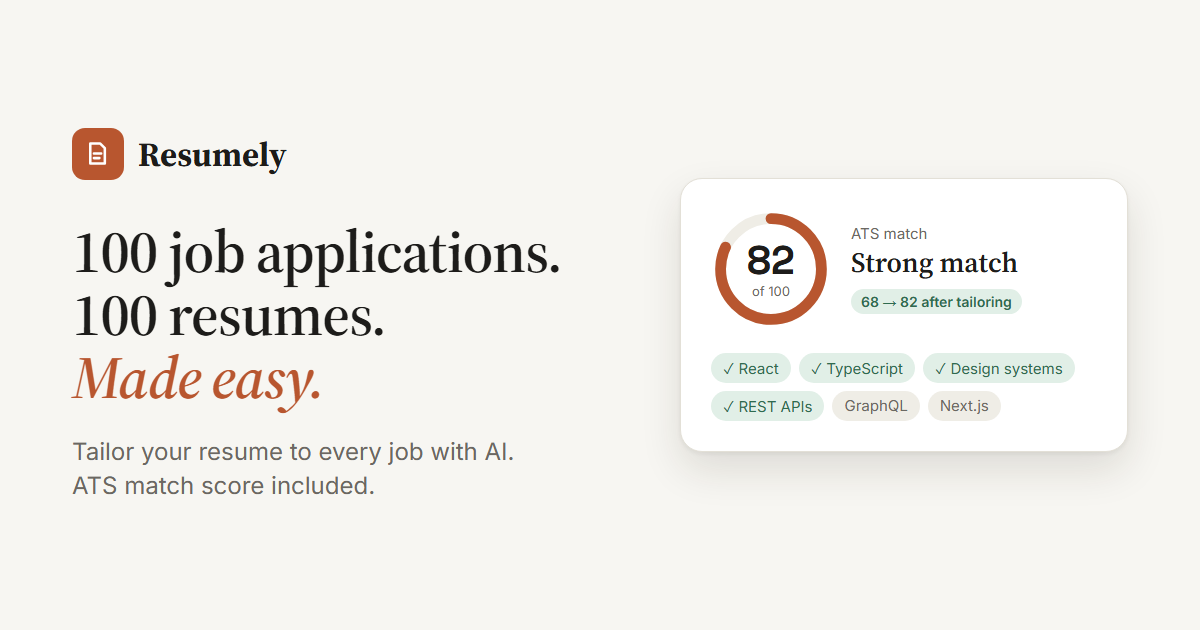
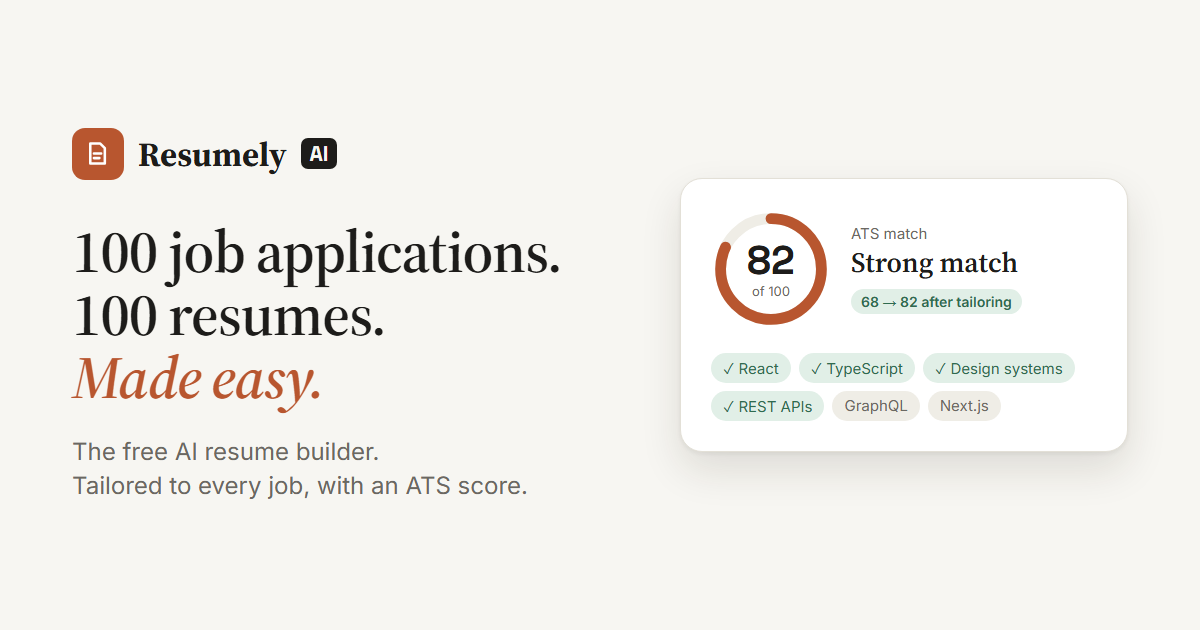
SEO pass: Resumely AI name, one H1, FAQ, AI search, live sitemap
Audited against the seo-audit and seo skills from
davila7/claude-code-templates:

- Name is "Resumely AI" across the site, social image, manifest,
  structured data and 404 page.
- Title leads with the keyword (Free AI Resume Builder & ATS Checker |
  Resumely AI, 50 chars); description 155 chars with a call to action.
- Exactly one H1 (the hidden screens' titles are H2s) and it says AI;
  an H2 for "How the AI resume builder works", so headings don't skip.
- Visible FAQ (8 real answers, incl. free limits and privacy) with
  FAQPage structured data generated from the same text.
- WebApplication + Organization + WebSite structured data (free offer).
- llms.txt for AI search tools (ChatGPT, Perplexity, Google AI answers).
- Sitemap generated with lastmod = when the page last changed.

Changed region(s): [[0.0617, 0.6937, 0.4317, 0.7841], [0.2467, 0.2111, 0.2775, 0.2714]]

diff --git a/public/index.html b/public/index.html
@@ -3,8 +3,8 @@
 <head>
 <meta charset="utf-8">
 <meta name="viewport" content="width=device-width, initial-scale=1, viewport-fit=cover">
-<title>Resumely: AI Resume Builder with ATS Score and Job Tailoring</title>
-<meta name="description" content="Upload your resume, paste the job description, and Resumely tailors it with AI and scores it like an ATS. Eight ATS-friendly themes and PDF download.">
+<title>Free AI Resume Builder &amp; ATS Checker | Resumely AI</title>
+<meta name="description" content="Resumely AI is a free AI resume builder. Upload your resume, tailor it to any job description with AI, check your ATS score and download a PDF in minutes.">
 <link rel="canonical" href="https://resume.sarey.tech/">
 <meta name="robots" content="index, follow, max-image-preview:large">
 <meta name="theme-color" content="#b8562f">
@@ -14,33 +14,128 @@
 <link rel="apple-touch-icon" href="/apple-touch-icon.png">
 <link rel="manifest" href="/site.webmanifest">
 <meta property="og:type" content="website">
-<meta property="og:site_name" content="Resumely">
+<meta property="og:site_name" content="Resumely AI">
 <meta property="og:url" content="https://resume.sarey.tech/">
-<meta property="og:title" content="Resumely: one tailored resume for every job">
-<meta property="og:description" content="Paste the job description and Resumely tailors your resume with AI, then scores it like an applicant tracking system.">
+<meta property="og:title" content="Resumely AI: free AI resume builder with an ATS score">
+<meta property="og:description" content="Upload your resume, paste the job description, and Resumely AI tailors it with AI, then scores it like an applicant tracking system. Free.">
 <meta property="og:image" content="https://resume.sarey.tech/og.png">
 <meta property="og:image:width" content="1200">
 <meta property="og:image:height" content="630">
-<meta property="og:image:alt" content="Resumely: 100 job applications, 100 resumes, with an ATS match score of 82 out of 100.">
+<meta property="og:image:alt" content="Resumely AI, the free AI resume builder: 100 job applications, 100 resumes, with an ATS match score of 82 out of 100.">
 <meta property="og:locale" content="en_US">
 <meta name="twitter:card" content="summary_large_image">
-<meta name="twitter:title" content="Resumely: one tailored resume for every job">
-<meta name="twitter:description" content="Paste the job description and Resumely tailors your resume with AI, then scores it like an applicant tracking system.">
+<meta name="twitter:title" content="Resumely AI: free AI resume builder with an ATS score">
+<meta name="twitter:description" content="Upload your resume, paste the job description, and Resumely AI tailors it with AI, then scores it like an applicant tracking system. Free.">
 <meta name="twitter:image" content="https://resume.sarey.tech/og.png">
 <script type="application/ld+json">
 {
   "@context": "https://schema.org",
-  "@type": "WebApplication",
-  "name": "Resumely",
-  "url": "https://resume.sarey.tech/",
-  "description": "AI resume builder that tailors your resume to each job description and scores it like an applicant tracking system.",
-  "applicationCategory": "BusinessApplication",
-  "operatingSystem": "Any",
-  "browserRequirements": "Requires a modern web browser",
-  "featureList": ["Resume upload (PDF, Word, text)", "AI tailoring to a job description", "ATS match score", "Spelling and grammar check", "Eight ATS-friendly themes", "PDF download"],
-  "image": "https://resume.sarey.tech/og.png",
-  "author": { "@type": "Person", "name": "Sharat Patnayakuni" },
-  "publisher": { "@type": "Organization", "name": "Sarey", "url": "https://sarey.tech" }
+  "@graph": [
+    {
+      "@type": "WebApplication",
+      "@id": "https://resume.sarey.tech/#app",
+      "name": "Resumely AI",
+      "alternateName": ["Resumely", "Resumely AI resume builder"],
+      "url": "https://resume.sarey.tech/",
+      "description": "Free AI resume builder. Upload your resume, tailor it to any job description with AI, check your ATS match score, fix spelling and grammar, and download an ATS-friendly PDF.",
+      "applicationCategory": "BusinessApplication",
+      "applicationSubCategory": "AI resume builder",
+      "operatingSystem": "Any",
+      "browserRequirements": "Requires a modern web browser",
+      "isAccessibleForFree": true,
+      "offers": { "@type": "Offer", "price": "0", "priceCurrency": "USD" },
+      "featureList": ["AI resume builder", "Upload a resume (PDF, Word or text)", "AI tailoring to a job description", "ATS match score out of 100", "AI spelling and grammar check", "Eight ATS-friendly resume templates", "PDF download"],
+      "image": "https://resume.sarey.tech/og.png",
+      "author": { "@type": "Person", "name": "Sharat Patnayakuni" },
+      "publisher": { "@id": "https://resume.sarey.tech/#org" }
+    },
+    {
+      "@type": "Organization",
+      "@id": "https://resume.sarey.tech/#org",
+      "name": "Sarey",
+      "url": "https://sarey.tech",
+      "logo": "https://resume.sarey.tech/icon-512.png"
+    },
+    {
+      "@type": "WebSite",
+      "@id": "https://resume.sarey.tech/#website",
+      "name": "Resumely AI",
+      "url": "https://resume.sarey.tech/",
+      "publisher": { "@id": "https://resume.sarey.tech/#org" }
+    }
+  ]
+}
+</script>
+<script type="application/ld+json">
+{
+  "@context": "https://schema.org",
+  "@type": "FAQPage",
+  "mainEntity": [
+    {
+      "@type": "Question",
+      "name": "What is Resumely AI?",
+      "acceptedAnswer": {
+        "@type": "Answer",
+        "text": "Resumely AI is a free AI resume builder. Upload the resume you already have (PDF, Word or text) and the AI turns it into an editable resume. Pick one of eight ATS-friendly themes, tailor it to a job description, edit it on the page or by chatting with the AI assistant, and download a PDF."
+      }
+    },
+    {
+      "@type": "Question",
+      "name": "Is Resumely AI free?",
+      "acceptedAnswer": {
+        "@type": "Answer",
+        "text": "Yes. Resumely AI is a free personal project, and every account starts with free AI credits. The AI runs on free models with daily limits, so at busy times it can be slower or switch to simpler built-in rules for a while."
+      }
+    },
+    {
+      "@type": "Question",
+      "name": "How does the ATS resume checker work?",
+      "acceptedAnswer": {
+        "@type": "Answer",
+        "text": "Paste a job description and Resumely AI reads the job's keywords, then scores your resume out of 100: job keywords (40), relevant experience (20), job title (15), readable format (15) and specific results (10). It shows which keywords your resume has and which are missing. The score is a guide to how keyword-matching systems read a resume, not a promise from any employer."
+      }
+    },
+    {
+      "@type": "Question",
+      "name": "Can the AI tailor my resume to a job description?",
+      "acceptedAnswer": {
+        "@type": "Answer",
+        "text": "Yes. The AI rewords what you have already done in the job's own language and moves your most relevant work to the top. It never adds skills, jobs or numbers you don't have: requirements your resume doesn't cover are listed so you can decide."
+      }
+    },
+    {
+      "@type": "Question",
+      "name": "Are the resume templates ATS-friendly?",
+      "acceptedAnswer": {
+        "@type": "Answer",
+        "text": "Yes. All eight themes fit on one page, use standard section headings and real text rather than images, so applicant tracking systems can read them. The downloaded PDF matches the preview exactly."
+      }
+    },
+    {
+      "@type": "Question",
+      "name": "Does it check spelling and grammar?",
+      "acceptedAnswer": {
+        "@type": "Answer",
+        "text": "Yes. The AI reads every line and lists typos, grammar slips and inconsistencies such as mixed tenses, each with a one-click fix. Names of people, companies and technologies are left alone."
+      }
+    },
+    {
+      "@type": "Question",
+      "name": "Which files can I upload?",
+      "acceptedAnswer": {
+        "@type": "Answer",
+        "text": "PDF, Word (.docx) or plain text, up to 10 MB. Scanned images can't be read, so use a text-based PDF or a Word file."
+      }
+    },
+    {
+      "@type": "Question",
+      "name": "Is my resume private?",
+      "acceptedAnswer": {
+        "@type": "Answer",
+        "text": "You sign in with Google, and only you can see your resumes. You can delete a resume at any time. When you use an AI feature, the resume text is sent to the AI provider that answers the request (OpenRouter or NVIDIA), and free AI providers may keep logs of what they receive."
+      }
+    }
+  ]
 }
 </script>
 <link rel="preconnect" href="https://fonts.googleapis.com">
@@ -52,9 +147,9 @@
 <body>
 <div class="app">
   <header class="topbar">
-    <a class="brand" href="#home" aria-label="Resumely home">
+    <a class="brand" href="#home" aria-label="Resumely AI home">
       <span class="brand-mark"><svg viewBox="0 0 16 16" fill="none"><path d="M4 2.5h5.5L12 5v8.5H4z" stroke="#fff" stroke-width="1.4" stroke-linejoin="round"/><path d="M6 8h4M6 10.5h3" stroke="#fff" stroke-width="1.4" stroke-linecap="round"/></svg></span>
-      Resumely
+      Resumely <span class="brand-ai">AI</span>
     </a>
     <nav class="steps" id="steps" aria-label="Progress">
       <button class="step" data-go="upload"><b>1</b><span>Upload</span></button>
@@ -69,9 +164,9 @@
     <div class="wrap">
       <div class="hero">
         <div>
-          <p class="eyebrow">AI resume builder with an ATS score</p>
-          <h1>Bring your old resume. Leave with a better one.</h1>
-          <p class="lede">Upload the resume you already have. Resumely pulls out your experience, lets you pick a layout, and then you edit it on the page or by chatting: "make my summary shorter", "add React to my skills".</p>
+          <p class="eyebrow">Resumely AI · free AI resume builder</p>
+          <h1>Bring your old resume. <span class="h1-ai">AI makes it better.</span></h1>
+          <p class="lede">Upload the resume you already have. Resumely AI reads your experience, tailors it to the job you want, checks your ATS score, and lets you edit on the page or by chatting with the AI: "make my summary shorter", "add React to my skills".</p>
           <div class="cta" id="home-cta" hidden>
             <button class="btn primary" data-go="upload">Upload your resume</button>
             <button class="link" id="home-sample">Try it with a sample resume</button>
@@ -87,16 +182,17 @@
           <div class="sheet-wrap s3" data-render="bold"></div>
         </div>
       </div>
+      <h2 class="how-h">How the AI resume builder works</h2>
       <div class="how">
-        <div><span class="n">Step 1</span><h3>Upload</h3><p>PDF, Word or plain text. Your sections, roles, dates and skills are read out of the file.</p></div>
-        <div><span class="n">Step 2</span><h3>Pick a theme</h3><p>Eight one-page layouts that applicant tracking systems can read. Change the accent color any time.</p></div>
-        <div><span class="n">Step 3</span><h3>Edit and download</h3><p>Click any line to fix it, or ask the assistant. Download a PDF that matches the preview exactly.</p></div>
+        <div><span class="n">Step 1</span><h3>Upload your resume</h3><p>PDF, Word or plain text. The AI reads your sections, roles, dates and skills out of the file.</p></div>
+        <div><span class="n">Step 2</span><h3>Pick an ATS-friendly theme</h3><p>Eight one-page layouts that applicant tracking systems can read. Change the accent color any time.</p></div>
+        <div><span class="n">Step 3</span><h3>Tailor, edit and download</h3><p>Paste the job, let the AI tailor it, click any line to fix it, then download a PDF that matches the preview exactly.</p></div>
       </div>
 
       <section class="many" aria-labelledby="many-h">
         <div class="many-copy">
           <p class="eyebrow">One resume for every job</p>
-          <h2 id="many-h">100 job applications.<br>100 resumes.<br><span class="em">Resumely makes it easy.</span></h2>
+          <h2 id="many-h">100 job applications.<br>100 resumes.<br><span class="em">Resumely AI makes it easy.</span></h2>
           <p class="many-lede">Every job asks for something a little different, and one resume sent everywhere gets filtered out. Paste the job description and the assistant reshapes your resume for that role, then make a copy and do the next one.</p>
           <ul class="many-points">
             <li><b>Paste the job description</b><span>Your most relevant work moves to the top, with the job's own keywords where your experience backs them up.</span></li>
@@ -145,13 +241,52 @@
         <div class="many-copy">
           <p class="eyebrow">ATS match score</p>
           <h2 id="atsp-h">See your score before<br><span class="em">the hiring system does.</span></h2>
-          <p class="many-lede">Most companies run resumes through an applicant tracking system that looks for the job's keywords. Resumely scores your resume against the job you paste, out of 100, and shows exactly what's missing.</p>
+          <p class="many-lede">Most companies run resumes through an applicant tracking system that looks for the job's keywords. Resumely AI scores your resume against the job you paste, out of 100, and shows exactly what's missing.</p>
           <ul class="many-points">
             <li><b>Keywords found and missing</b><span>Every skill and tool the job asks for, marked as in your resume or not, with the required ones flagged.</span></li>
             <li><b>Fix it in one click</b><span>Each fix asks the assistant for a precise change, then the score updates on the spot.</span></li>
             <li><b>No keyword stuffing</b><span>Repeating a word doesn't raise the score, and skills you don't have are never added.</span></li>
           </ul>
           <button class="btn primary many-cta" id="atsp-cta" type="button">Check your ATS score</button>
+        </div>
+      </section>
+
+      <section class="faq" aria-labelledby="faq-h">
+        <p class="eyebrow">FAQ</p>
+        <h2 id="faq-h">Questions about Resumely AI</h2>
+        <div class="faq-list">
+          <details open>
+            <summary><h3>What is Resumely AI?</h3></summary>
+            <p>Resumely AI is a free AI resume builder. Upload the resume you already have (PDF, Word or text) and the AI turns it into an editable resume. Pick one of eight ATS-friendly themes, tailor it to a job description, edit it on the page or by chatting with the AI assistant, and download a PDF.</p>
+          </details>
+          <details>
+            <summary><h3>Is Resumely AI free?</h3></summary>
+            <p>Yes. Resumely AI is a free personal project, and every account starts with free AI credits. The AI runs on free models with daily limits, so at busy times it can be slower or switch to simpler built-in rules for a while.</p>
+          </details>
+          <details>
+            <summary><h3>How does the ATS resume checker work?</h3></summary>
+            <p>Paste a job description and Resumely AI reads the job's keywords, then scores your resume out of 100: job keywords (40), relevant experience (20), job title (15), readable format (15) and specific results (10). It shows which keywords your resume has and which are missing. The score is a guide to how keyword-matching systems read a resume, not a promise from any employer.</p>
+          </details>
+          <details>
+            <summary><h3>Can the AI tailor my resume to a job description?</h3></summary>
+            <p>Yes. The AI rewords what you have already done in the job's own language and moves your most relevant work to the top. It never adds skills, jobs or numbers you don't have: requirements your resume doesn't cover are listed so you can decide.</p>
+          </details>
+          <details>
+            <summary><h3>Are the resume templates ATS-friendly?</h3></summary>
+            <p>Yes. All eight themes fit on one page, use standard section headings and real text rather than images, so applicant tracking systems can read them. The downloaded PDF matches the preview exactly.</p>
+          </details>
+          <details>
+            <summary><h3>Does it check spelling and grammar?</h3></summary>
+            <p>Yes. The AI reads every line and lists typos, grammar slips and inconsistencies such as mixed tenses, each with a one-click fix. Names of people, companies and technologies are left alone.</p>
+          </details>
+          <details>
+            <summary><h3>Which files can I upload?</h3></summary>
+            <p>PDF, Word (.docx) or plain text, up to 10 MB. Scanned images can't be read, so use a text-based PDF or a Word file.</p>
+          </details>
+          <details>
+            <summary><h3>Is my resume private?</h3></summary>
+            <p>You sign in with Google, and only you can see your resumes. You can delete a resume at any time. When you use an AI feature, the resume text is sent to the AI provider that answers the request (OpenRouter or NVIDIA), and free AI providers may keep logs of what they receive.</p>
+          </details>
         </div>
       </section>
     </div>
@@ -162,7 +297,7 @@
     <div class="wrap">
       <div class="upload">
         <p class="eyebrow">Step 1 of 3</p>
-        <h1>Upload your current resume</h1>
+        <h2 class="view-h">Upload your current resume</h2>
         <p class="sub">We need your resume first so the editor starts with your real experience, not a blank page.</p>
         <label class="drop" id="drop" for="file">
           <div class="ico"><svg width="22" height="22" viewBox="0 0 24 24" fill="none" stroke="currentColor" stroke-width="1.8" stroke-linecap="round" stroke-linejoin="round"><path d="M12 16V4M7 9l5-5 5 5"/><path d="M4 16v3a1 1 0 0 0 1 1h14a1 1 0 0 0 1-1v-3"/></svg></div>
@@ -203,7 +338,7 @@
       <div class="themes-head">
         <div>
           <p class="eyebrow">Step 2 of 3</p>
-          <h1>Pick a theme</h1>
+          <h2 class="view-h">Pick a theme</h2>
           <p class="sub">Every theme uses the same content, so you can switch later in the editor.</p>
         </div>
         <div class="swatches" id="swatches"><span class="lbl">Accent</span></div>
@@ -280,7 +415,7 @@
       <div class="admin-head">
         <div>
           <p class="eyebrow">Admin</p>
-          <h1>Users and credits</h1>
+          <h2 class="view-h">Users and credits</h2>
           <p class="sub" id="admin-sub">1 credit = 1,000 AI tokens.</p>
         </div>
         <button class="btn" id="admin-refresh" type="button">Refresh</button>

diff --git a/src/app.js b/src/app.js
@@ -113,11 +113,11 @@ function buildIndexHtml() {
 }
 
 const NOT_FOUND_HTML = `<!doctype html><html lang="en"><head><meta charset="utf-8"><meta name="viewport" content="width=device-width, initial-scale=1">
-<title>Page not found · Resumely</title><meta name="robots" content="noindex"><link rel="icon" href="/favicon.svg" type="image/svg+xml">
+<title>Page not found · Resumely AI</title><meta name="robots" content="noindex"><link rel="icon" href="/favicon.svg" type="image/svg+xml">
 <style>:root{--bg:#f7f6f2;--fg:#1d1c1a;--muted:#6b6862;--accent:#b8562f}@media (prefers-color-scheme:dark){:root{--bg:#1f1e1c;--fg:#f2f0ea;--muted:#a9a59c;--accent:#e07a52}}
 body{margin:0;min-height:100vh;display:grid;place-items:center;background:var(--bg);color:var(--fg);font:16px/1.5 system-ui,-apple-system,"Segoe UI",sans-serif;padding:24px;box-sizing:border-box}
 h1{font-family:Georgia,serif;font-weight:600;font-size:34px;margin:0 0 8px}p{color:var(--muted);margin:0 0 20px}a{color:var(--accent);font-weight:600}</style></head>
-<body><main><h1>This page doesn't exist</h1><p>The link may be old or mistyped.</p><a href="/">Go to Resumely</a></main></body></html>`;
+<body><main><h1>This page doesn't exist</h1><p>The link may be old or mistyped.</p><a href="/">Go to Resumely AI</a></main></body></html>`;
 
 const safeFileName =(s) => (s || 'resume').replace(/[^\w\- ]+/g, '').trim().replace(/\s+/g, '_') || 'resume';
 
@@ -168,6 +168,20 @@ function createApp({ verifyGoogleCredential = auth.verifyGoogleCredential } = {}
     next();
   });
   app.get('/favicon.ico', (req, res) => res.type('png').sendFile(path.join(PUBLIC_DIR, 'favicon-32.png')));
+  // Sitemap with lastmod = when the landing page last changed (updates itself on deploy).
+  const lastmod = fs.statSync(path.join(PUBLIC_DIR, 'index.html')).mtime.toISOString().slice(0, 10);
+  app.get('/sitemap.xml', (req, res) => {
+    res.set('Cache-Control', 'public, max-age=3600').type('application/xml').send(`<?xml version="1.0" encoding="UTF-8"?>
+<urlset xmlns="http://www.sitemaps.org/schemas/sitemap/0.9">
+  <url>
+    <loc>${config.appUrl.replace(/\/$/, '')}/</loc>
+    <lastmod>${lastmod}</lastmod>
+    <changefreq>weekly</changefreq>
+    <priority>1.0</priority>
+  </url>
+</urlset>
+`);
+  });
   app.use(express.static(PUBLIC_DIR, {
     cacheControl: false,
     setHeaders(res, file) { if (file.endsWith('.webmanifest')) res.type('application/manifest+json'); },

diff --git a/scripts/e2e.js b/scripts/e2e.js
@@ -212,7 +212,20 @@ const { MongoMemoryServer } = require('mongodb-memory-server');
     s = await fetch(`${base}/site.webmanifest`); assert.match(s.headers.get('content-type'), /manifest\+json/);
     s = await fetch(`${base}/css/app.css?v=abc`); assert.match(s.headers.get('cache-control'), /immutable/);
     s = await fetch(`${base}/no-such-page`); assert.equal(s.status, 404); assert.match(await s.text(), /This page doesn't exist/);
-    ok('SEO: description, canonical, social card, structured data, robots, sitemap, favicon, manifest, 404 page');
+    // On-page checks from the SEO audit
+    assert.equal((html.match(/<h1[\s>]/g) || []).length, 1, 'exactly one H1');
+    assert.match(html.match(/<h1[^>]*>([\s\S]*?)<\/h1>/)[1], /AI/);
+    const title = html.match(/<title>([^<]*)<\/title>/)[1].replace(/&amp;/g, '&');
+    assert.ok(title.length <= 60 && /Resumely AI/.test(title) && /AI Resume Builder/i.test(title), `title: ${title}`);
+    const desc = html.match(/<meta name="description" content="([^"]*)"/)[1];
+    assert.ok(desc.length >= 140 && desc.length <= 160, `description is ${desc.length} characters`);
+    const faqLd = JSON.parse(html.match(/<script type="application\/ld\+json">\s*(\{\s*"@context": "https:\/\/schema.org",\s*"@type": "FAQPage"[\s\S]*?)<\/script>/)[1]);
+    const visibleQs = [...html.matchAll(/<summary><h3>([\s\S]*?)<\/h3><\/summary>/g)].map((m) => m[1]);
+    assert.deepEqual(faqLd.mainEntity.map((q) => q.name), visibleQs, 'FAQ structured data matches the visible FAQ');
+    s = await fetch(`${base}/llms.txt`); assert.equal(s.status, 200); assert.match(await s.text(), /^# Resumely AI/);
+    s = await fetch(`${base}/sitemap.xml`); const sm = await s.text();
+    assert.match(sm, /<lastmod>\d{4}-\d{2}-\d{2}<\/lastmod>/); assert.match(sm, /<loc>http/);
+    ok('SEO: one H1 with AI, keyword title, description length, FAQ data matches the page, llms.txt, self-updating sitemap, canonical, social card, robots, 404');
 
     let r = await call('GET', '/api/sample');
     assert.equal(r.status, 200); assert.ok(r.json.name); ok('sample preview data is public');

diff --git a/public/css/app.css b/public/css/app.css
@@ -499,3 +499,26 @@ p{margin:0}
 .admin-table .why{font-size:12px;color:var(--muted)}
 .admin-table .prow td{background:color-mix(in srgb,var(--surface-2) 60%,transparent)}
 .res.warnc{color:var(--warn);background:color-mix(in srgb,var(--warn) 14%,transparent)}
+
+/* SEO pass: one H1 per page. The hidden screens' titles are H2s styled like before. */
+.view-h{font-size:34px;margin-top:6px}
+.admin-head .view-h{font-size:clamp(26px,3vw,34px)}
+/* "Resumely AI" name: small dark AI badge next to the wordmark */
+.brand-ai{font-family:var(--f-grotesk);font-weight:700;font-size:.62em;letter-spacing:.02em;color:var(--bg);background:var(--fg);border-radius:6px;padding:1px 6px;margin-left:2px;vertical-align:.18em}
+.h1-ai{color:var(--accent);font-style:italic}
+/* How it works heading */
+.how-h{font-size:22px;margin-top:64px;border-top:1px solid var(--line);padding-top:32px}
+.how-h + .how{margin-top:20px;border-top:0;padding-top:0}
+/* FAQ */
+.faq{margin-top:72px;max-width:860px}
+.faq h2{font-size:clamp(28px,3.4vw,40px);margin-top:8px}
+.faq-list{margin-top:24px;border-top:1px solid var(--line)}
+.faq details{border-bottom:1px solid var(--line);padding:4px 0}
+.faq summary{cursor:pointer;list-style:none;display:flex;align-items:center;justify-content:space-between;gap:16px;padding:16px 0}
+.faq summary::-webkit-details-marker{display:none}
+.faq summary::after{content:"+";font-family:var(--f-grotesk);font-size:24px;color:var(--accent);flex:none;transition:transform .2s}
+.faq details[open] summary::after{transform:rotate(45deg)}
+.faq summary h3{font-size:19px;font-family:var(--f-body);font-weight:600;letter-spacing:0}
+.faq details p{color:var(--muted);font-size:15.5px;line-height:1.65;padding:0 40px 18px 0;max-width:62em}
+.faq summary:focus-visible{outline:2px solid var(--accent);outline-offset:4px;border-radius:4px}
+@media (max-width:560px){.faq{margin-top:48px}.faq summary h3{font-size:17px}.faq details p{padding-right:0}}

diff --git a/scripts/make-images.js b/scripts/make-images.js
@@ -12,9 +12,9 @@ const page = (body, w, h) => `<!doctype html><html><head><meta charset="utf-8">
 
 const OG = `<div style="width:1200px;height:630px;background:#f7f6f2;color:#1d1c1a;font-family:Inter,sans-serif;display:grid;grid-template-columns:1.25fr 1fr;gap:48px;align-items:center;padding:64px 72px">
   <div>
-    <div style="display:flex;align-items:center;gap:14px;font-family:'Source Serif 4',serif;font-weight:700;font-size:34px">${MARK(52, 13)}Resumely</div>
+    <div style="display:flex;align-items:center;gap:14px;font-family:'Source Serif 4',serif;font-weight:700;font-size:34px">${MARK(52, 13)}Resumely <span style="font-family:'Space Grotesk',sans-serif;font-size:21px;color:#f7f6f2;background:#1d1c1a;border-radius:7px;padding:2px 9px">AI</span></div>
     <div style="font-family:'Source Serif 4',serif;font-weight:600;font-size:60px;line-height:1.05;letter-spacing:-.015em;margin-top:40px">100 job applications.<br>100 resumes.<br><span style="color:#b8562f;font-style:italic">Made easy.</span></div>
-    <div style="font-size:24px;color:#6b6862;margin-top:26px;line-height:1.4">Tailor your resume to every job with AI.<br>ATS match score included.</div>
+    <div style="font-size:24px;color:#6b6862;margin-top:26px;line-height:1.4">The free AI resume builder.<br>Tailored to every job, with an ATS score.</div>
   </div>
   <div style="background:#fff;border:1px solid #e3e0d7;border-radius:22px;padding:30px;box-shadow:0 2px 4px rgba(40,30,20,.06),0 18px 40px rgba(40,30,20,.12)">
     <div style="display:flex;gap:20px;align-items:center">

diff --git a/src/llm.js b/src/llm.js
@@ -107,7 +107,7 @@ const PROVIDERS = {
     endpoint: 'https://openrouter.ai/api/v1/chat/completions',
     keys: () => (config.llm.provider === 'openrouter' ? config.llm.apiKeys : []), // one or more (LLM_API_KEY, comma separated)
     models: () => [config.llm.model, ...config.llm.fallbackModels],
-    headers: () => ({ 'HTTP-Referer': config.appUrl, 'X-Title': 'Resumely' }),
+    headers: () => ({ 'HTTP-Referer': config.appUrl, 'X-Title': 'Resumely AI' }),
     timeoutMs: 30000,
   },
   nvidia: {
@@ -290,7 +290,7 @@ async function chat({ data, theme, message, jd = '', history = [] }) {
   const messages = [
     {
       role: 'system',
-      content: `You are the editing assistant inside Resumely, a resume builder. The user asks for changes to their resume; you make them.
+      content: `You are the editing assistant inside Resumely AI, an AI resume builder. The user asks for changes to their resume; you make them.
 
 Reply with one JSON object only:
 {
